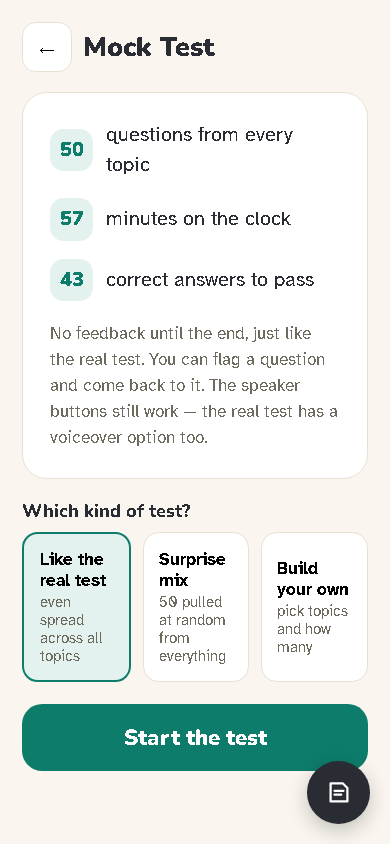
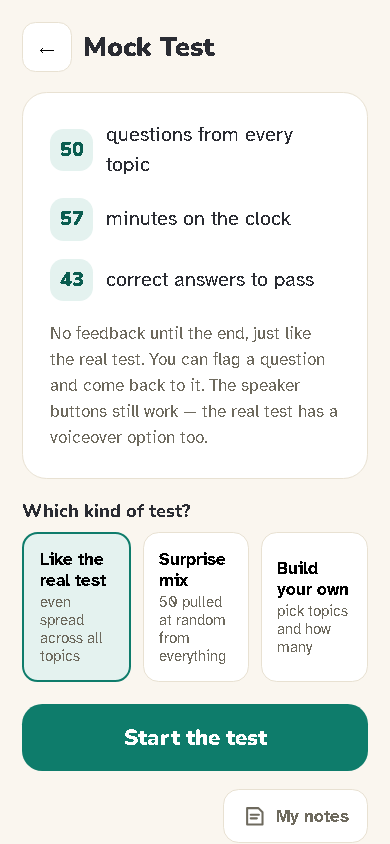
fix(pages): help, legal and adventure findings from the #10 audit; guide follows #32
help/site.css: words and links on the teal panels and section numbers use the
new --on-tint (4.44:1 before); contents group labels use --muted (2.2:1);
code and path chips set their own colour (4.47:1 in grey text). help.html:
the title and introduction are inside <main>. Legal pages: one centred reading
column (.wrap.reading), not 424px empty on the right at 1280px.
adventure.css: the "Open the app first" car stays on screen (46px sideways).
Guide: Notes, Today's lesson and the mock chart described as they now work;
settings.png and mock-intro.png retaken without the old button over them.

diff --git a/help/site.css b/help/site.css
@@ -15,9 +15,10 @@
   --bad-bg: #FBEAE9;      /* red panels */
   --fg: #2A2C33;          /* body text */
   --muted: #6E6A5E;       /* secondary text */
-  --faint: #B5AE9E;       /* captions */
+  --faint: #B5AE9E;       /* decoration only, never words: 2.2:1 on a card */
   --link: #0E7C6B;        /* links and headings accents */
   --link-hover: #0A5D50;
+  --on-tint: #0A5D50;     /* words on the teal panels: --link there is 4.44:1, under 4.5:1 */
   --good: #1C6B3C;
   --bad: #B8433D;
   --amber: #8A5A0B;
@@ -34,7 +35,7 @@
   :root:not([data-theme="light"]) {
     --bg: #121411; --bg-glow: #191B18; --card: #1C1F1C; --chip: #2A2C28; --tint: #163631;
     --warn-bg: #3A2F17; --bad-bg: #3D201E; --fg: #ECE8DF; --muted: #AAA596; --faint: #817C70;
-    --link: #46C7AE; --link-hover: #6FD8C3; --good: #72D596; --bad: #F28B83; --amber: #EAB45E;
+    --link: #46C7AE; --link-hover: #6FD8C3; --on-tint: #6FD8C3; --good: #72D596; --bad: #F28B83; --amber: #EAB45E;
     --border: #363833; --border-tint: #23514A; --border-warn: #5E4A24;
     --shadow: 0 1px 2px rgba(0, 0, 0, .3), 0 8px 24px rgba(0, 0, 0, .25);
     color-scheme: dark;
@@ -44,7 +45,7 @@
 :root[data-theme="dark"] {
   --bg: #121411; --bg-glow: #191B18; --card: #1C1F1C; --chip: #2A2C28; --tint: #163631;
   --warn-bg: #3A2F17; --bad-bg: #3D201E; --fg: #ECE8DF; --muted: #AAA596; --faint: #817C70;
-  --link: #46C7AE; --link-hover: #6FD8C3; --good: #72D596; --bad: #F28B83; --amber: #EAB45E;
+  --link: #46C7AE; --link-hover: #6FD8C3; --on-tint: #6FD8C3; --good: #72D596; --bad: #F28B83; --amber: #EAB45E;
   --border: #363833; --border-tint: #23514A; --border-warn: #5E4A24;
   --shadow: 0 1px 2px rgba(0, 0, 0, .3), 0 8px 24px rgba(0, 0, 0, .25);
   color-scheme: dark;
@@ -74,7 +75,8 @@ a { color: var(--link); text-underline-offset: 3px; }
 a:hover { color: var(--link-hover); }
 :focus-visible { outline: 3px solid var(--link); outline-offset: 2px; border-radius: 6px; }
 strong { font-weight: 700; }
-code { font-size: .88em; background: var(--chip); border-radius: 6px; padding: 1px 6px; }
+/* Chips set their own colour: inside grey text they took the grey, 4.47:1 on the chip (#32). */
+code { font-size: .88em; background: var(--chip); color: var(--fg); border-radius: 6px; padding: 1px 6px; }
 img { max-width: 100%; height: auto; }
 
 /* Visible when tabbed to: jump past the header and contents. */
@@ -111,7 +113,7 @@ img { max-width: 100%; height: auto; }
 .toc li { margin: 0; }
 .toc a { display: block; padding: 7px 10px; border-radius: 10px; color: var(--fg); text-decoration: none; font-size: 15.5px; }
 .toc a:hover { background: var(--chip); color: var(--fg); }
-.toc .toc-group { font-size: 12.5px; letter-spacing: .06em; text-transform: uppercase; color: var(--faint); font-weight: 700; padding: 12px 10px 4px; }
+.toc .toc-group { font-size: 12.5px; letter-spacing: .06em; text-transform: uppercase; color: var(--muted); font-weight: 700; padding: 12px 10px 4px; }
 
 /* ---------- article sections ---------- */
 .doc > section { background: var(--card); border: 1px solid var(--border); border-radius: 22px; padding: 22px 20px; margin-bottom: 18px; box-shadow: var(--shadow); }
@@ -122,7 +124,7 @@ img { max-width: 100%; height: auto; }
 .doc { counter-reset: section; }
 .doc > section { counter-increment: section; }
 .num:empty::before { content: counter(section); }
-.num { flex: none; display: inline-flex; align-items: center; justify-content: center; width: 36px; height: 36px; border-radius: 11px; background: var(--tint); color: var(--link); font-size: 17px; }
+.num { flex: none; display: inline-flex; align-items: center; justify-content: center; width: 36px; height: 36px; border-radius: 11px; background: var(--tint); color: var(--on-tint); font-size: 17px; }
 
 /* Text beside its screenshots on wide screens. */
 .step { display: grid; grid-template-columns: 1fr; gap: 16px; margin-top: 18px; }
@@ -144,14 +146,15 @@ img { max-width: 100%; height: auto; }
 .shots-row .shot { flex: 1; max-width: 250px; margin: 0; }
 
 /* "Settings → Appearance" style paths, and small keys. */
-.path { display: inline; background: var(--chip); border-radius: 8px; padding: 1px 7px; font-weight: 700; font-size: .94em; white-space: normal; }
+.path { display: inline; background: var(--chip); color: var(--fg); border-radius: 8px; padding: 1px 7px; font-weight: 700; font-size: .94em; white-space: normal; }
 
 /* ---------- callouts ---------- */
 .note, .known, .draft { border-radius: 16px; padding: 14px 16px; margin: 14px 0; font-size: 15.5px; }
 .note { background: var(--tint); border: 1px solid var(--border-tint); }
 .known, .draft { background: var(--warn-bg); border: 1px solid var(--border-warn); }
 .note > :last-child, .known > :last-child, .draft > :last-child { margin-bottom: 0; }
-.note strong:first-child { color: var(--link); }
+.note strong:first-child { color: var(--on-tint); }
+.note a { color: var(--on-tint); }  /* links on the teal panel: --link is 4.43:1 there */
 .known strong:first-child, .draft strong:first-child { color: var(--amber); }
 .draft { font-size: 16px; }
 
@@ -180,6 +183,10 @@ img { max-width: 100%; height: auto; }
 
 /* ---------- legal pages: a single readable column ---------- */
 .legal { max-width: 760px; padding-bottom: 32px; }
+/* The legal pages' frame (<div class="wrap reading">): the notice's 760px plus .wrap's two 16px
+   gutters, centred, so on a wide screen both sides have the same margin (#32: at 1280px the
+   notice sat on the left with 424px empty to its right). */
+.wrap.reading { max-width: 792px; }
 .legal section { background: var(--card); border: 1px solid var(--border); border-radius: 22px; padding: 22px 20px; margin-bottom: 16px; box-shadow: var(--shadow); }
 @media (min-width: 700px) { .legal section { padding: 28px 32px; } }
 .legal h2 { font-size: 23px; }
@@ -190,7 +197,7 @@ img { max-width: 100%; height: auto; }
   /* Same specificity as the dark blocks and later in the file, so paper is always light. */
   :root:not([data-theme="print"]), :root[data-theme] {
     --bg: #fff; --bg-glow: #fff; --card: #fff; --chip: #EFE9DC; --tint: #E4F2EF; --warn-bg: #FBF1DC;
-    --fg: #000; --muted: #444; --faint: #666; --link: #0A5D50; --border: #ccc; --border-warn: #F0D9A8;
+    --fg: #000; --muted: #444; --faint: #666; --link: #0A5D50; --on-tint: #0A5D50; --border: #ccc; --border-warn: #F0D9A8;
     color-scheme: light;
   }
   body { background: #fff; color: #000; font-size: 11pt; }

diff --git a/help.html b/help.html
@@ -28,6 +28,9 @@
     <a class="btn" href="Theory%20Trainer.dc.html">Open the app</a>
   </header>
 
+  <!-- ============ the guide: its title and introduction, then the contents beside the sections.
+       All inside the main landmark, so the skip link lands on the title and nothing sits outside a landmark. ============ -->
+  <main id="main">
   <div class="hero">
     <h1>How to use Theory Trainer</h1>
     <p class="lede">Everything the app does, screen by screen: how to sign in, what Today's lesson is, how mock tests work, what your progress numbers mean, and every setting. There's a short part at the end for the parent or admin.</p>
@@ -78,7 +81,7 @@
       </details>
     </nav>
 
-    <main id="main" class="doc">
+    <div class="doc">
 
       <!-- ============ 1. sign in ============ -->
       <section id="start" aria-labelledby="h-start">
@@ -257,10 +260,10 @@
               <li><strong>Questions you keep missing</strong> — ones you've got wrong 3 or more times, or on 2 different days. They stay in this group until you get them right twice running.</li>
               <li><strong>Questions you flagged.</strong></li>
               <li><strong>Questions due again</strong> — spaced out so they come back just as you might forget: after 1 right answer in a row, 1 day later; then 3 days, 7 days, 14 days and 30 days.</li>
-              <li><strong>A few new ones</strong> — at most 4 questions you haven't seen before.</li>
+              <li><strong>A few new ones</strong> — at most 4 questions you haven't seen before, unless there's little to review: then the lesson fills up with new ones, so your very first lesson is all new questions.</li>
             </ol>
             <p>Topics are mixed up rather than done in blocks, and if you get a question wrong in the lesson it comes back 3 questions later (at most twice), so you leave having got it right.</p>
-            <p>The line under the button says what's in today's lesson, for example "3 you keep missing · 4 flagged · 13 due again".</p>
+            <p>The line under the button says what's in today's lesson, for example "3 you keep missing · 4 flagged · 13 due again". Before you've answered any questions it says "Your first 20 questions, to get you started" (the number is the lesson's size).</p>
             <p class="note"><strong>Only real questions.</strong> The lesson only ever picks and orders questions from the app's question bank. It never writes a question or an answer of its own.</p>
           </div>
           <figure class="shot">
@@ -505,7 +508,7 @@
             <h3>Your topics</h3>
             <p>Every topic gets a coloured light, weakest first: <strong>Not tried much</strong> (fewer than 5 answers), <strong>Needs work</strong> (under 50% right), <strong>Shaky</strong> (50–69%), <strong>Good</strong> (70–84%) or <strong>Strong</strong> (85% and over). Needs work and Shaky topics show a tip for that topic.</p>
             <h3>Your mock tests and Worth remembering</h3>
-            <p>A chart of your mock scores against the pass mark of 43, and a few short tips for your weakest topics.</p>
+            <p>A chart of your mock scores against the pass mark of 43, and a few short tips for your weakest topics. The chart starts a little under your lowest score rather than at 0, so your scores are easier to tell apart, and the line under it says where it starts, for example "The chart runs from 30 to 50."</p>
           </div>
           <figure class="shot">
             <a href="help/img/progress.png"><img src="help/img/progress.png" width="390" height="844" alt="My Progress: the readiness dial showing 69% ready, labelled Getting there, and Pass prediction below it." loading="lazy"></a>
@@ -685,7 +688,8 @@
         <h2 id="h-notes"><span class="num"></span>Notes</h2>
         <div class="step">
           <div>
-            <p>The round dark button in the bottom-right corner (on every screen except the sign-in screens and the quick setup) opens <strong>Notes</strong> for the screen you're on — for example, a note on Home, or one on the mock test. Just type; it saves as you go.</p>
+            <p><strong>My notes</strong> opens Notes for the screen you're on — for example, a note on Home, or one on the mock test. Just type; it saves as you go. It's on every screen except the sign-in screens and the quick setup.</p>
+            <p>On a phone, and on every question, the <strong>My notes</strong> button is at the bottom of the screen, under everything else: scroll down to it. That way it never covers a button. On a wide screen, such as a computer, it is the round dark button in the bottom-right corner, in the space beside the page.</p>
             <p>If you have notes on other screens, <strong>Also on:</strong> lists them so you can jump to one. <strong>✕</strong> closes the notes. Notes belong to each learner and sync with the account.</p>
           </div>
           <figure class="shot">
@@ -936,8 +940,9 @@
         <p>The questions, answers and explanations are written for practice and are checked against the Highway Code, but mistakes are possible and rules change. Always check the current <a href="https://www.gov.uk/guidance/the-highway-code">Highway Code on GOV.UK</a> — it is the official source. A good score in the app is a sign you're preparing well, not a promise that you'll pass.</p>
         <p>Found something wrong? Tell the admin, who can correct the question in the question editor.</p>
       </section>
-    </main>
+    </div>
   </div>
+  </main>
 
   <!-- ============ footer ============ -->
   <footer class="foot">

diff --git a/tests/help-pages.test.js b/tests/help-pages.test.js
@@ -386,7 +386,8 @@ test('#32 pages: words on the teal panels, the contents group labels and code ch
   // chip inside grey text on the cookies page took the grey, 4.47:1 on the chip colour.
   // [selector, the background it sits on]. Each must set its own colour: an inherited one
   // changes with whatever the chip or label happens to be put in.
-  const PAIRS = [['.note strong:first-child', 'tint'], ['.num', 'tint'], ['.toc .toc-group', 'card'], ['code', 'chip'], ['.path', 'chip']];
+  // (A link in a teal panel, 4.43:1, showed up once the first ones were fixed.)
+  const PAIRS = [['.note strong:first-child', 'tint'], ['.note a', 'tint'], ['.num', 'tint'], ['.toc .toc-group', 'card'], ['code', 'chip'], ['.path', 'chip']];
   for (const [sel, bg] of PAIRS) {
     const fg = (cssRule(sel).match(/[{;\s]color:\s*var\(--([\w-]+)\)/) || [])[1];
     assert.ok(fg, sel + ' sets no colour of its own, so it takes the colour of whatever it sits in');

diff --git a/legal/cookies.html b/legal/cookies.html
@@ -16,7 +16,8 @@
 </head>
 <body>
 <a class="skip" href="#main">Skip to the notice</a>
-<div class="wrap">
+<!-- "reading": header, notice and footer share one centred reading column (help/site.css) -->
+<div class="wrap reading">
   <header class="top">
     <a class="brand" href="../Theory%20Trainer.dc.html" aria-label="Theory Trainer — open the app">
       <span class="brand-mark" aria-hidden="true"><svg width="24" height="24" viewBox="0 0 24 24"><circle cx="12" cy="12" r="9" fill="none" stroke="#fff" stroke-width="2.4"/><circle cx="12" cy="12" r="2.4" fill="#fff"/><path d="M12 14.2 L12 21 M10 12.6 L3.6 10.4 M14 12.6 L20.4 10.4" stroke="#fff" stroke-width="2.2"/></svg></span>

diff --git a/legal/privacy.html b/legal/privacy.html
@@ -16,7 +16,8 @@
 </head>
 <body>
 <a class="skip" href="#main">Skip to the notice</a>
-<div class="wrap">
+<!-- "reading": header, notice and footer share one centred reading column (help/site.css) -->
+<div class="wrap reading">
   <header class="top">
     <a class="brand" href="../Theory%20Trainer.dc.html" aria-label="Theory Trainer — open the app">
       <span class="brand-mark" aria-hidden="true"><svg width="24" height="24" viewBox="0 0 24 24"><circle cx="12" cy="12" r="9" fill="none" stroke="#fff" stroke-width="2.4"/><circle cx="12" cy="12" r="2.4" fill="#fff"/><path d="M12 14.2 L12 21 M10 12.6 L3.6 10.4 M14 12.6 L20.4 10.4" stroke="#fff" stroke-width="2.2"/></svg></span>

diff --git a/legal/refunds.html b/legal/refunds.html
@@ -16,7 +16,8 @@
 </head>
 <body>
 <a class="skip" href="#main">Skip to the policy</a>
-<div class="wrap">
+<!-- "reading": header, notice and footer share one centred reading column (help/site.css) -->
+<div class="wrap reading">
   <header class="top">
     <a class="brand" href="../Theory%20Trainer.dc.html" aria-label="Theory Trainer — open the app">
       <span class="brand-mark" aria-hidden="true"><svg width="24" height="24" viewBox="0 0 24 24"><circle cx="12" cy="12" r="9" fill="none" stroke="#fff" stroke-width="2.4"/><circle cx="12" cy="12" r="2.4" fill="#fff"/><path d="M12 14.2 L12 21 M10 12.6 L3.6 10.4 M14 12.6 L20.4 10.4" stroke="#fff" stroke-width="2.2"/></svg></span>

diff --git a/legal/terms.html b/legal/terms.html
@@ -16,7 +16,8 @@
 </head>
 <body>
 <a class="skip" href="#main">Skip to the terms</a>
-<div class="wrap">
+<!-- "reading": header, notice and footer share one centred reading column (help/site.css) -->
+<div class="wrap reading">
   <header class="top">
     <a class="brand" href="../Theory%20Trainer.dc.html" aria-label="Theory Trainer — open the app">
       <span class="brand-mark" aria-hidden="true"><svg width="24" height="24" viewBox="0 0 24 24"><circle cx="12" cy="12" r="9" fill="none" stroke="#fff" stroke-width="2.4"/><circle cx="12" cy="12" r="2.4" fill="#fff"/><path d="M12 14.2 L12 21 M10 12.6 L3.6 10.4 M14 12.6 L20.4 10.4" stroke="#fff" stroke-width="2.2"/></svg></span>

diff --git a/adventure/adventure.css b/adventure/adventure.css
@@ -98,6 +98,9 @@ main { max-width: 640px; margin: 0 auto; padding: 0 16px 48px; outline: none; }
 .msg h1 { font-size: 26px; margin: 12px 0 8px; outline: none; }
 .msg p { color: var(--muted); }
 .msg-art { --wc: var(--brand); width: 120px; margin: 0 auto; }
+/* The message reuses the map's car, which the map places 46px outside its stop (.car below). Here it
+   stays in its box, or the page scrolls sideways (#32, WCAG 1.4.10). */
+.msg-art .car { position: static; width: 100%; height: auto; }
 
 /* ---------- world header and tabs ---------- */
 .world-head { display: flex; align-items: center; gap: 8px; margin-top: 4px; padding: 16px 10px; border-radius: 22px; color: #fff;
